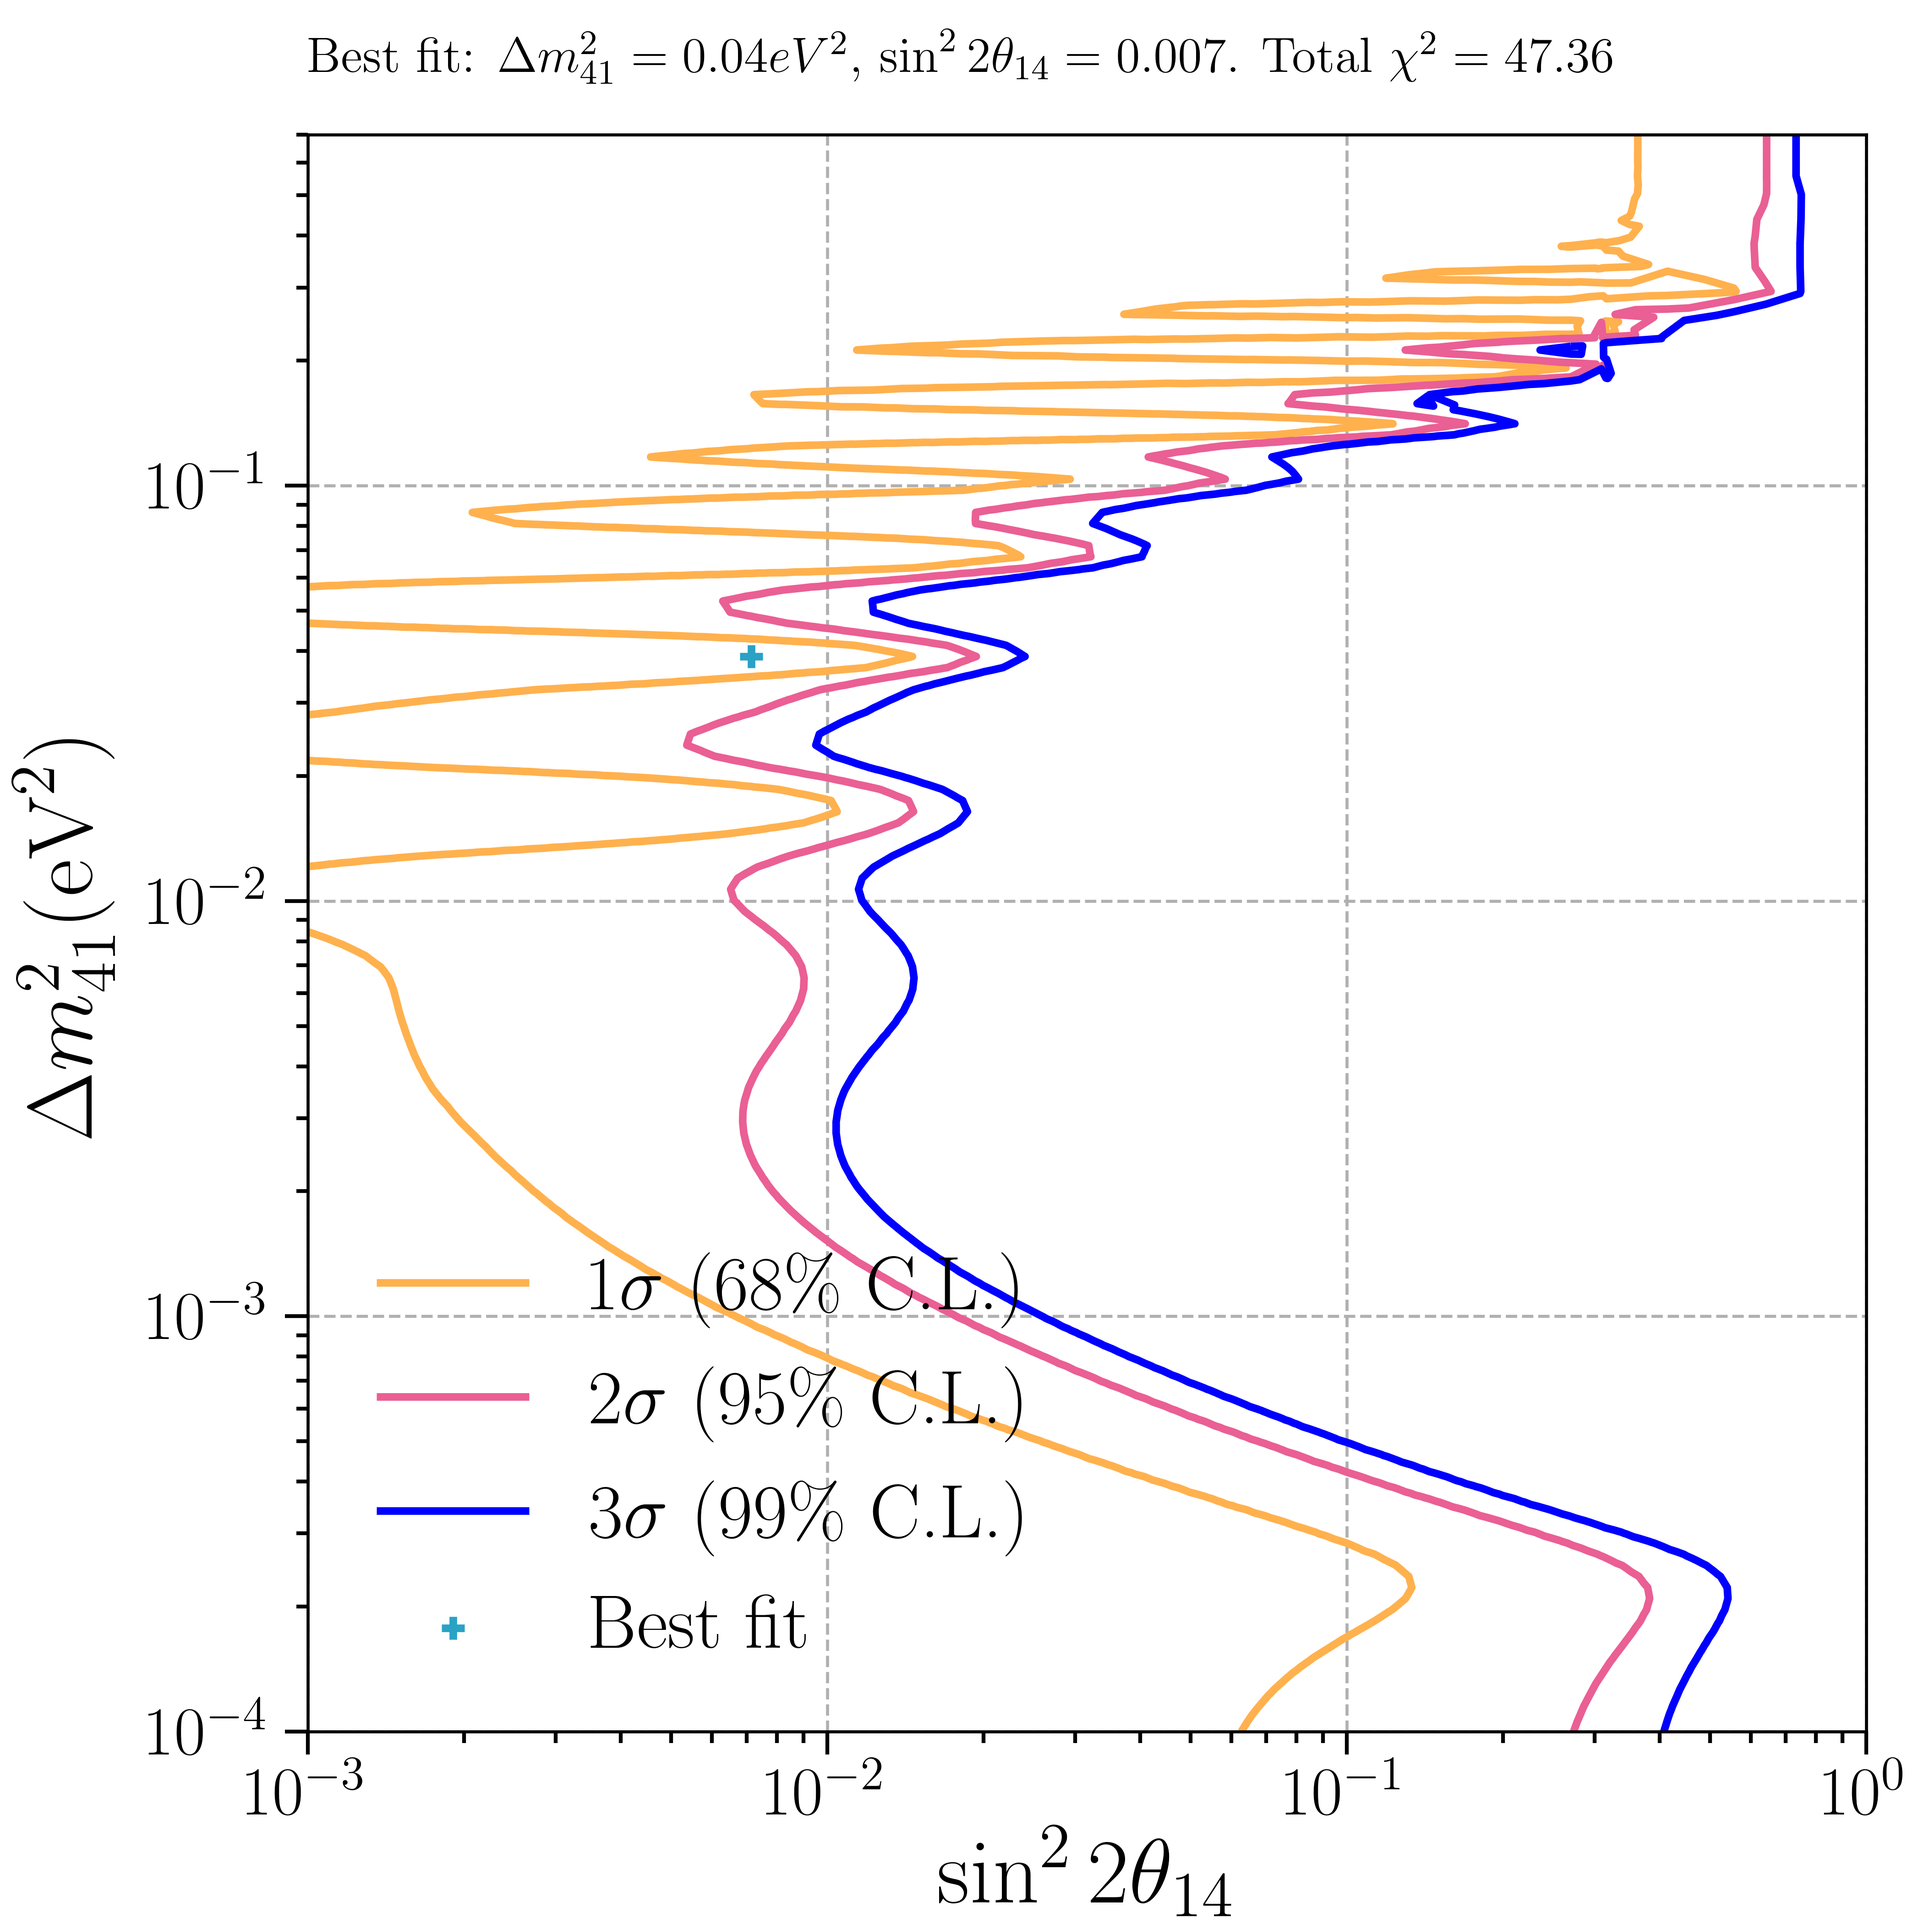
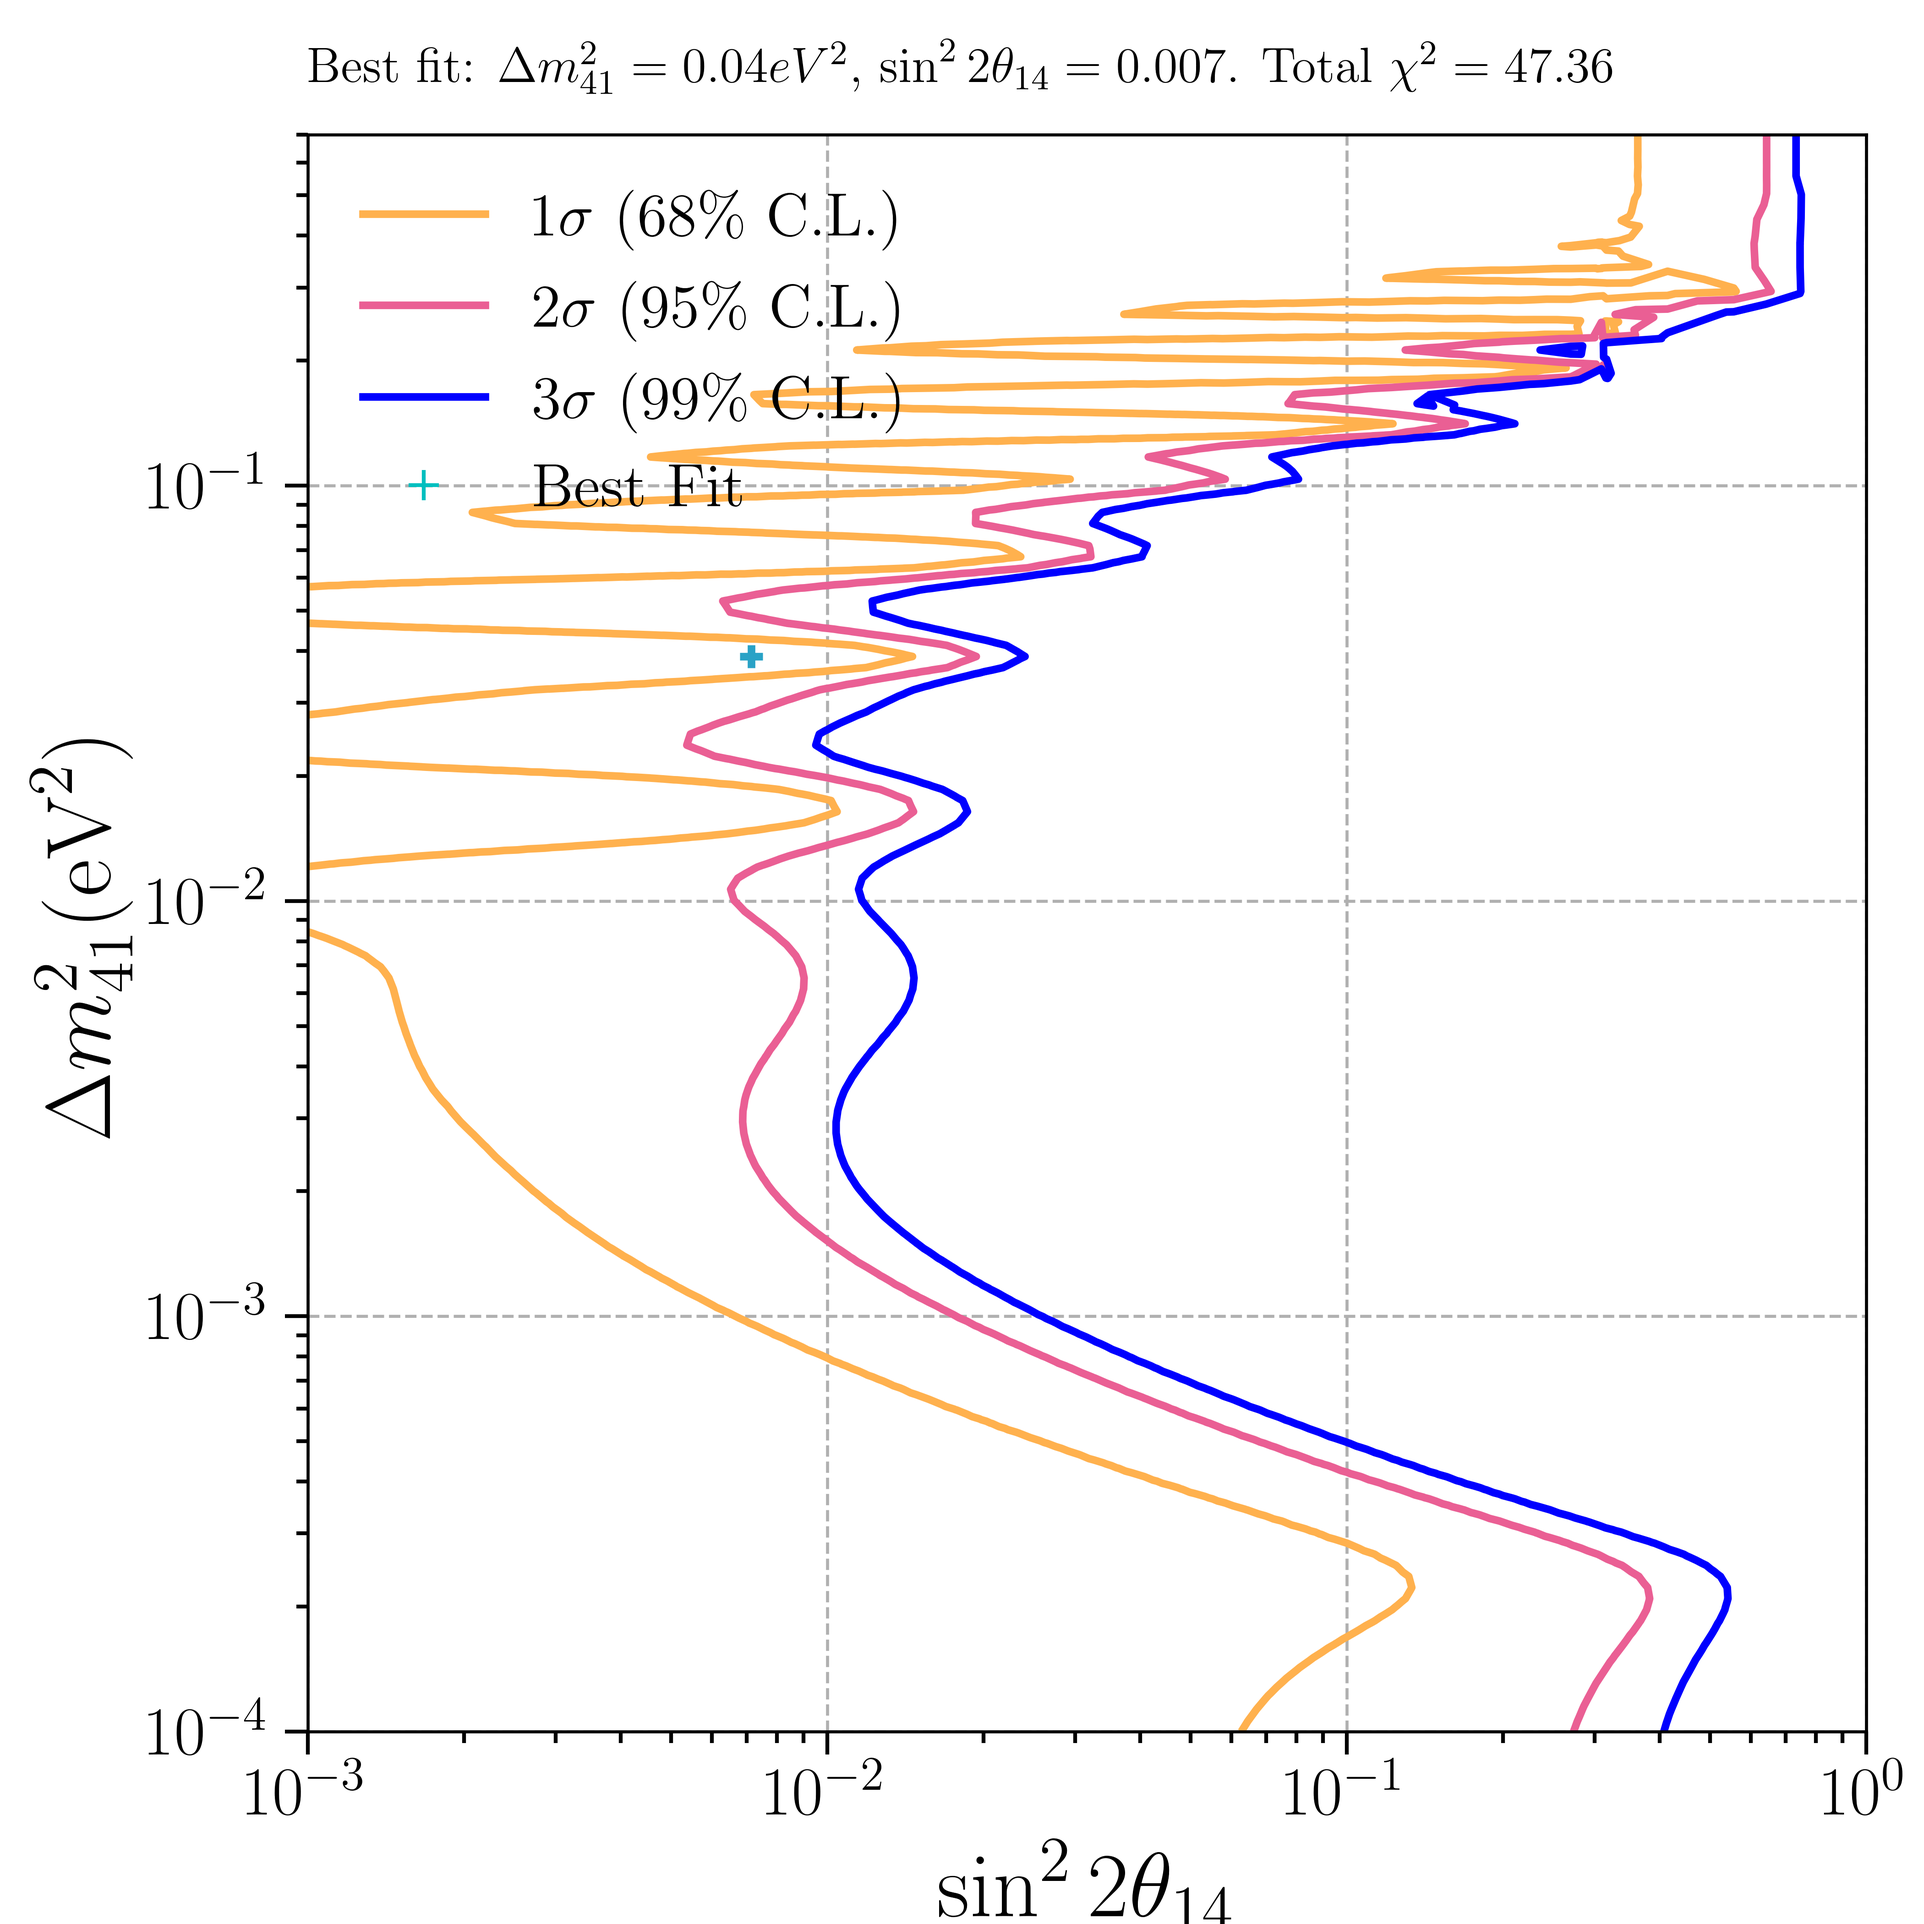
Updated DayaBay

diff --git a/DayaBay/FitPlots.py b/DayaBay/FitPlots.py
@@ -1,9 +1,9 @@
 import sys
 import os
-common_dir = '/Common_cython'
-main_dir = os.getcwd()[:-8]
-sys.path.append(main_dir+common_dir)
-sys.path.append(main_dir+"/DayaBay")
+homedir = os.path.realpath(__file__)[:-len('DayaBay/FitClass.py')]
+common_dir = 'Common_cython/'
+sys.path.append(homedir+common_dir)
+sys.path.append(homedir+'DayaBay/')
 
 import matplotlib.pyplot as plt
 import numpy as np
@@ -11,9 +11,11 @@ import matplotlib
 
 import Models
 import DayaBay as DB
+from matplotlib.lines import Line2D
 
-path_to_style = main_dir+common_dir
-dir = 'PlotData/'
+path_to_style = homedir+common_dir
+dir = homedir+'DayaBay/PlotData/'
+plotdir = homedir + 'DayaBay/Figures/'
 plt.style.use(path_to_style+r"/paper.mplstyle")
 matplotlib.rcParams.update({'text.usetex': True})
 matplotlib.rcParams['text.latex.preamble']=[r"\usepackage{amsmath}"]
@@ -63,14 +65,15 @@ def stylize(axxis,contours,t_ax = [1e-3,1], m_ax = [1e-2,10]):
     axxis.tick_params(axis='y')
     axxis.set_xscale('log')
     axxis.set_yscale('log')
-    axxis.set_ylabel(r"$\Delta m^2_{41} (\text{eV}^2)$", fontsize = 24)
+    axxis.set_ylabel(r"$\Delta m^2_{41} (\textrm{eV}^2)$", fontsize = 24)
     axxis.set_xlabel(r"$\sin^2 2 \theta_{14}$", fontsize = 24)
     axxis.set_xlim([1e-3,1])
     axxis.set_ylim([1e-4,0.7])
-    labels = [r'$1\sigma$ (68\% C.L.)',r'$2\sigma$ (95\% C.L.)',r'$3\sigma$ (99\% C.L.)']
-    for i in range(3):
-        contours.collections[i].set_label(labels[i])
-    axxis.legend(loc = 'lower left', fontsize = 20)
+    legend_elements = [Line2D([0], [0], color=color1, ls = '-', lw=2, label=r'$1\sigma$ (68\% C.L.)'),
+                       Line2D([0], [0], color=color2, ls = '-', lw=2, label=r'$2\sigma$ (95\% C.L.)'),
+                       Line2D([0], [0], color=color3, ls = '-', lw=2, label=r'$3\sigma$ (99\% C.L.)'),
+                       Line2D([0], [0], marker='+', color='c', lw = 0, label='Best Fit', markerfacecolor='b', markersize=8)]
+    axxis.legend(handles = legend_elements, loc = 'upper left', fontsize = 16)
 
 # Colorblind-sensitive colors
 color1 = '#FFB14E'
@@ -105,14 +108,14 @@ print('Null hyp chi2: ',null_hyp_PW)
 # ----------------------------------
 figBF,axBF = plt.subplots(figsize = size,gridspec_kw=margins)
 
-conts = axBF.tricontour(data_PW[:,1],data_PW[:,0],(data_PW[:,2]-bestfit[2]),levels = [2.30,6.18,11.83],  colors = [color1,color2,color3])
+conts = axBF.tricontour(data_PW[:,1],data_PW[:,0],(data_PW[:,2]-bestfit[2]),levels = [2.30,6.18,11.83], colors = [color1,color2,color3])
 axBF.scatter(bestfit[1],bestfit[0],marker = '+', label = r'Best fit')
 # axBF.scatter(data_PW[:,1],data_PW[:,0],marker = '+', s = 1.) # This tells us the resolution of our table
 
 stylize(axBF,conts)
 
-figBF.suptitle(r'Best fit:  $\Delta m^2_{41} = %.2f \text{ eV}^2$, $\sin^2 2\theta_{14} = %.3f$. Total $\chi^2 = %.2f$'%(bestfit[0],bestfit[1], bestfit[2]), fontsize = titlesize)
-figBF.savefig('Figures/PWContour_bestfit.png')
+figBF.suptitle(r'Best fit:  $\Delta m^2_{41} = %.2f \textrm{ eV}^2$, $\sin^2 2\theta_{14} = %.3f$. Total $\chi^2 = %.2f$'%(bestfit[0],bestfit[1], bestfit[2]), fontsize = titlesize)
+figBF.savefig(plotdir+'PWContour_bestfit.png')
 
 
 # PLOT WITH RESPECT TO THE NULL HYPOTHESIS
@@ -127,7 +130,7 @@ axNH.scatter(bestfit[1],bestfit[0],marker = '+', label = 'Our best fit')
 stylize(axNH,conts)
 
 figNH.suptitle('Null hypothesis: total $\chi^2 = %.2f$'%(null_hyp_PW), fontsize = titlesize)
-figNH.savefig('Figures/PWContour_nullhyp.png')
+figNH.savefig(plotdir+'PWContour_nullhyp.png')
 
 
 
@@ -160,7 +163,7 @@ axBF.scatter(bestfit[1],bestfit[0],marker = '+', label = r'Best fit')
 stylize(axBF,conts)
 
 figBF.suptitle(r'Best fit:  $\Delta m^2_{41} = %.2f eV^2$, $\sin^2 2\theta_{14} = %.3f$. Total $\chi^2 = %.2f$'%(bestfit[0],bestfit[1], bestfit[2]), fontsize = titlesize)
-figBF.savefig('Figures/WPContour_bestfit.png')
+figBF.savefig(plotdir+'WPContour_bestfit.png')
 
 
 # PLOT WITH RESPECT TO THE NULL HYPOTHESIS
@@ -175,7 +178,7 @@ axNH.scatter(bestfit[1],bestfit[0],marker = '+', label = 'Our best fit')
 stylize(axNH,conts)
 
 figNH.suptitle('Null hypothesis: total $\chi^2 = %.2f$'%(null_hyp_WP), fontsize = titlesize)
-figNH.savefig('Figures/WPContour_nullhyp.png')
+figNH.savefig(plotdir+'WPContour_nullhyp.png')
 
 
 
@@ -187,9 +190,9 @@ figNH.savefig('Figures/WPContour_nullhyp.png')
 margins = dict(left=0.16, right=0.97,bottom=0.1, top=0.97)
 fig_comp,ax_comp = plt.subplots(figsize = size, gridspec_kw = margins)
 cont_PW = ax_comp.tricontour(data_PW[:,1],data_PW[:,0],(data_PW[:,2]-null_hyp_PW),levels = [6.18], colors = color2)
-cont_PW.collections[0].set_label(r'$2\sigma$ Plane wave')
+# cont_PW.collections[0].set_label(r'$2\sigma$ Plane wave')
 cont_WP = ax_comp.tricontour(data_WP[:,1],data_WP[:,0],(data_WP[:,2]-null_hyp_WP),levels = [6.18], colors = color3)
-cont_WP.collections[0].set_label(r'$2\sigma$ Wave packet')
+# cont_WP.collections[0].set_label(r'$2\sigma$ Wave packet')
 
 ax_comp.annotate('DayaBay', xy = (1.25e-3,0.28), size = 42)
 ax_comp.grid(linestyle = '--')
@@ -197,11 +200,13 @@ ax_comp.tick_params(axis='x')
 ax_comp.tick_params(axis='y')
 ax_comp.set_xscale('log')
 ax_comp.set_yscale('log')
-ax_comp.set_ylabel(r"$\Delta m^2_{41} (\text{eV}^2)$", fontsize = 24)
+ax_comp.set_ylabel(r"$\Delta m^2_{41} (\textrm{eV}^2)$", fontsize = 24)
 ax_comp.set_xlabel(r"$\sin^2 2 \theta_{14}$", fontsize = 24)
 ax_comp.set_xlim([1e-3,1])
 ax_comp.set_ylim([1e-4,0.7])
-ax_comp.legend(loc = 'lower left', fontsize = 20)
+legend_elements = [Line2D([0], [0], color=color2, ls = '-', lw=2, label=r'$2\sigma$ Plane wave'),
+                   Line2D([0], [0], color=color3, ls = '-', lw=2, label=r'$2\sigma$ Wave packet')]
+ax_comp.legend(handles = legend_elements, loc = 'lower left', fontsize = 16)
 
-fig_comp.savefig('Figures/ContourComparison.png')
-fig_comp.savefig('Figures/ContourComparison.pdf')
+fig_comp.savefig(plotdir+'ContourComparison.png')
+fig_comp.savefig(plotdir+'ContourComparison.pdf')

diff --git a/DayaBay/EventExpectationPlots.py b/DayaBay/EventExpectationPlots.py
@@ -1,8 +1,12 @@
 #!/usr/bin/python3
 import time
+import os
 
 import DayaBay as DB
 import Models
+
+dir = os.path.realpath(__file__)[:-len('EventExpectationPlots.py')]
+plotdir = dir + 'Figures/'
 
 import numpy as np
 import matplotlib.pyplot as plt
@@ -14,8 +18,8 @@ Model_osc = Models.PlaneWaveSM()
 # Model_coh = Models.WavePacketSM()
 
 # Sterile parameters
-sin2 = 0.06
-dm2 = 0.5
+sin2 = 0.06 # sin^2(theta_{14})
+dm2 = 0.5   # Delta m_{14}^2
 Model_ste = Models.PlaneWaveSterile(Sin22Th14 = sin2, DM2_41 = dm2)
 
 
@@ -85,7 +89,7 @@ for i in range(len(fitter.sets_names)):
     axev[i].legend(loc="upper right",fontsize=16)
 
 figev.suptitle(r'Sterile with $\Delta m^2_{41} = %.2f eV^2$, $\sin^2 2\theta_{13} = %.2f$. Total $\chi^2 = %.2f$'%(dm2,sin2,np.sum(chi2_per_exp)), fontsize = 17)
-figev.savefig("Figures/EventExpectation/EventExpectation_%.2f_%.3f_ste.png"%(dm2,sin2))
+figev.savefig(plotdir+"EventExpectation/EventExpectation_%.2f_%.3f_ste.png"%(dm2,sin2))
 
 
 
@@ -116,7 +120,7 @@ for i in range(len(fitter.sets_names)):
 # figev.suptitle(r'Our best fit: $\Delta m^2_{13} = 2.5·10^{-3} eV^2$, $\sin^2 2\theta_{13} = 0.07821$', fontsize = 17)
 # figev.suptitle(r'DB best fit: $\Delta m^2_{13} = 2.4·10^{-3} eV^2$, $\sin^2 2\theta_{13} = 0.0841$', fontsize = 17)
 figev.suptitle(r'Sterile with $\Delta m^2_{41} = %.2f eV^2$, $\sin^2 2\theta_{13} = %.2f$. Total $\chi^2 = %.2f$'%(dm2,sin2,np.sum(chi2_per_exp)), fontsize = 17)
-figev.savefig("Figures/EventRatio/EventRatio_%.2f_%.3f_ste.png"%(dm2,sin2))
+figev.savefig(plotdir+"EventRatio/EventRatio_%.2f_%.3f_ste.png"%(dm2,sin2))
 
 
 
@@ -145,4 +149,4 @@ for i in range(len(fitter.sets_names)):
     # axchi[i].legend(loc="upper right",fontsize=16)
 
 figchi.suptitle(r'Sterile with $\Delta m^2_{41} = %.2f eV^2$, $\sin^2 2\theta_{13} = %.2f$. Total $\chi^2 = %.2f$'%(dm2,sin2,np.sum(chi2_per_exp)), fontsize = 17)
-figchi.savefig("Figures/Chi2/Chi2_%.2f_%.3f_ste.png"%(dm2,sin2))
+figchi.savefig(plotdir+"Chi2/Chi2_%.2f_%.3f_ste.png"%(dm2,sin2))

diff --git a/DayaBay/FitClass.py b/DayaBay/FitClass.py
@@ -1,7 +1,9 @@
 import sys
 import os
-common_dir = '/Common_cython'
-sys.path.append(os.getcwd()[:-8]+common_dir)
+homedir = os.path.realpath(__file__)[:-len('DayaBay/FitClass.py')]
+common_dir = 'Common_cython'
+sys.path.append(homedir+common_dir)
+
 
 import DayaBay as DB
 import Models
@@ -26,6 +28,7 @@ class StandardModelFit:
         Input:
         mass: the value of Delta m^2_{41} of the sterile neutrino.
         angl: the value of sin^2(2theta_{41})
+        sigma: the value of the wave packet width (in nm)
 
         Output: (float) the chi2 value.
         """
@@ -46,6 +49,7 @@ class StandardModelFit:
         mass_ax (array/list): the values of Delta m^2_{41}.
         angl_ax (array/list): the values of sin^2(2theta_{41})
         filename (str): the name of the file in which to write the table.
+        sigma: the value of the wave packet width (in nm)
         """
         file = open(filename,'w')
         for m in mass_ax:
@@ -92,6 +96,7 @@ class SterileFit:
         Input:
         mass: the value of Delta m^2_{41} of the sterile neutrino.
         angl: the value of sin^2(2theta_{41})
+        sigma: the value of the wave packet width (in nm)
 
         Output: (float) the chi2 value.
         """
@@ -113,6 +118,7 @@ class SterileFit:
         mass_ax (array/list): the values of Delta m^2_{41}.
         angl_ax (array/list): the values of sin^2(2theta_{41})
         filename (str): the name of the file in which to write the table.
+        sigma: the value of the wave packet width (in nm)
         """
         file = open(filename,'w')
         for m in mass_ax:

diff --git a/DayaBay/SMWavePacketFit.py b/DayaBay/SMWavePacketFit.py
@@ -20,13 +20,12 @@ def getChi2(mass = 2.5e-3,angl = 0.0841):
     print(mass,angl,chi2)
     return chi2
 
-print("Referència best-fit DB:", 0.0841, 2.5e-3,getChi2())
+print("Official best-fit from DB:", 0.0841, 2.5e-3,getChi2())
 
 file = open(dir+'SMWPChi2.dat','w')
 for m in datmass:
     for a in datangl:
         file.write('{0:1.5f},{1:1.5f},{2:7.4f}\n'.format(m,a,getChi2(m,a)))
 
-# HA QUEDAT ESCRIU A L'ARXIU!!!!!!!!
 
 file.close()

diff --git a/DayaBay/StandardModelFit.py b/DayaBay/StandardModelFit.py
@@ -20,13 +20,12 @@ def getChi2(mass = 2.5e-3,angl = 0.0841):
     print(mass,angl,chi2)
     return chi2
 
-print("Referència best-fit DB:", 0.0841, 2.5e-3,getChi2())
+print("Official best-fit from DB:", 0.0841, 2.5e-3,getChi2())
 
 file = open(dir+'SMChi2.dat','w')
 for m in datmass:
     for a in datangl:
         file.write('{0:1.5f},{1:1.5f},{2:7.4f}\n'.format(m,a,getChi2(m,a)))
 
-# HA QUEDAT ESCRIU A L'ARXIU!!!!!!!!
 
 file.close()

diff --git a/DayaBay/DayaBayParameters.py b/DayaBay/DayaBayParameters.py
@@ -70,6 +70,6 @@ def txt_to_array(filename, sep = ","):
 
 # We use the previous function to read the reconstruction matrix,
 # which is used to transform from real energies to reconstructed energies.
-dir = os.path.dirname(os.path.abspath(__file__))+"/Data/"
+dir = os.path.realpath(__file__)[:-len('DayaBayParameters.py')]+"Data/"
 
 reconstruct_mat = txt_to_array(dir+"ReconstructMatrix.dat")

diff --git a/DayaBay/DayaBay.py b/DayaBay/DayaBay.py
@@ -1,7 +1,8 @@
 import sys
 import os
-common_dir = '/Common_cython'
-sys.path.append(os.getcwd()[:-8]+common_dir)
+homedir = os.path.realpath(__file__)[:-len('DayaBay/DayaBay.py')]
+common_dir = 'Common_cython'
+sys.path.append(homedir+common_dir)
 
 import InverseBetaDecayCrossSection as IBD
 import HuberMullerFlux as HMF

diff --git a/DayaBay/DayaBayData.py b/DayaBay/DayaBayData.py
@@ -16,8 +16,7 @@ import os
 # For more information, the process is described in 1610.04802.
 
 
-dir = os.path.dirname(os.path.abspath(__file__))+"/Data/"
-
+dir = os.path.realpath(__file__)[:-len('DayaBayData.py')]+"Data/"
 
 # -------------------------------------------------------------
 #   HISTOGRAM BINS
